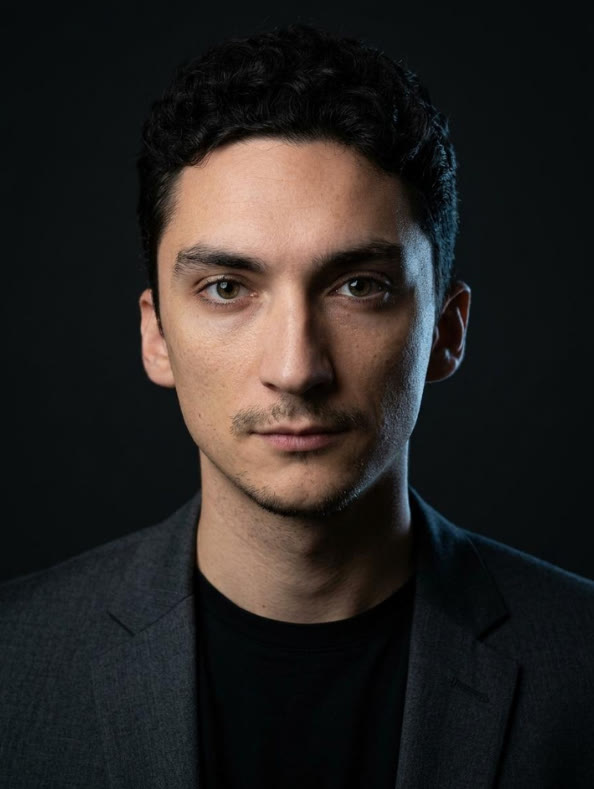
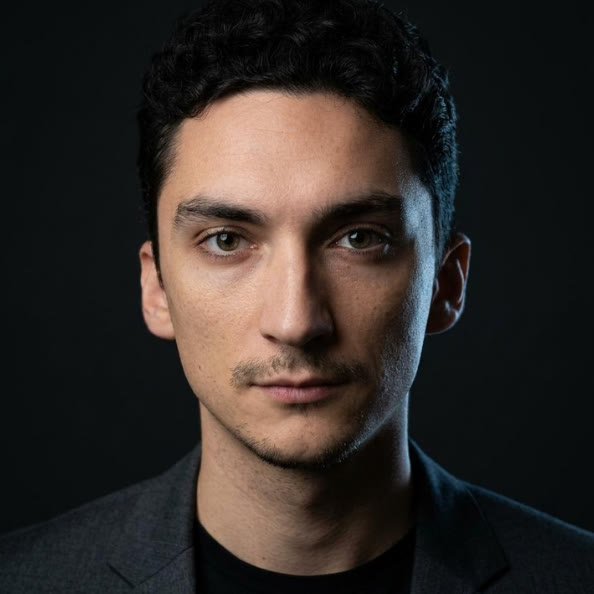
Square photo, tighter sections, no CV links, new bio
- portrait cropped square (594x594) and the hero CTAs sit under it
- hero bio replaced with the new five-paragraph description; page and OG
  descriptions follow it
- sections lose their rule lines and most of the vertical padding, display type
  steps down one notch, so far more lands above the fold
- every section-title description is gone (Experience, Contact, projects page head)
- all Full CV / CV links removed from every page and the footer; every LinkedIn
  button removed from the Experience section (resume.html still exists, unlinked)
- competitions section reads just "Competitions"
- co-author mentions dropped from the site copy (the CV still credits him)

diff --git a/index.html b/index.html
@@ -4,13 +4,13 @@
 <meta charset="utf-8">
 <meta name="viewport" content="width=device-width, initial-scale=1">
 <title>Anton Chernysh — Site Reliability Engineer, Zurich</title>
-<meta name="description" content="Site Reliability Engineer in Zurich. SLOs, error budgets, Kubernetes and infrastructure as code at DFINITY and Taurus, plus seven public repositories from WebAssembly to Z80 assembly.">
+<meta name="description" content="Site Reliability Engineer in Zurich. I take products from prototype to production infrastructure that stays up under real traffic — Go, Python and applied ML.">
 <meta name="author" content="Anton Chernysh Kornishuk">
 <link rel="canonical" href="https://visn0.github.io/portfolio/">
 
 <meta property="og:type" content="profile">
 <meta property="og:title" content="Anton Chernysh — Site Reliability Engineer">
-<meta property="og:description" content="SLOs, error budgets, Kubernetes and infrastructure as code. Projects in Rust/WebAssembly, Go and Python.">
+<meta property="og:description" content="Site Reliability Engineer in Zurich. Five years of taking products from prototype to production — SRE, Go and Python, and computational biology on the side.">
 <meta property="og:url" content="https://visn0.github.io/portfolio/">
 <meta property="og:image" content="https://visn0.github.io/portfolio/assets/img/og-card.png">
 <meta name="twitter:card" content="summary_large_image">
@@ -60,25 +60,39 @@
   <!-- ------------------------------------------------------- who I am -->
   <section class="hero-simple shell">
     <div class="hero-inner">
-      <figure class="portrait reveal">
-        <img src="assets/img/anton.jpg" alt="Anton Chernysh" width="594" height="789">
-      </figure>
+      <div class="hero-photo">
+        <figure class="portrait reveal">
+          <img src="assets/img/anton.jpg" alt="Anton Chernysh" width="594" height="594">
+        </figure>
+        <div class="cta-row hero-social">
+          <a class="btn btn--linkedin" href="https://www.linkedin.com/in/anton-chernysh/" target="_blank" rel="me noopener">LinkedIn</a>
+          <a class="btn btn--github" href="https://github.com/Visn0" target="_blank" rel="me noopener">GitHub</a>
+        </div>
+      </div>
 
       <div>
         <p class="eyebrow">Site Reliability Engineer · Zurich, Switzerland</p>
         <h1>Anton Chernysh</h1>
         <p class="hero-bio">
-          I keep production systems measurable, and then keep them that way. At DFINITY I build and scale
-          <strong>caffeine.ai</strong>, an AI-driven platform for building and deploying full-stack applications
-          in the cloud, and I run the reliability practice around it: SLOs, error budgets,
-          incident response and postmortems.
+          I build and scale infrastructure for startups, with 5+ years of taking products from early
+          prototype to production systems that stay up under real traffic.
         </p>
         <p class="hero-bio">
-          Before that I looked after regulated financial infrastructure at Taurus — Terraform, Kubernetes
-          and 24/7 on-call — and at Webbeds I refactored core services from PHP to Go for 6 billion
-          requests a day at four times the throughput. I write Go, Python and Rust, and I prefer problems
-          where the answer has to be measured rather than argued about. “If you cannot measure it, you
-          cannot improve it.”
+          My toolkit spans SRE, software engineering and machine learning: I write production code in Go
+          and Python, and I care about the whole lifecycle — architecture, observability, incident response,
+          and the algorithmic optimizations that make systems faster and cheaper to run.
+        </p>
+        <p class="hero-bio">
+          I think in tradeoffs: reliability against shipping speed, infrastructure cost against performance.
+          My mathematical background and interest in bioinformatics keep me close to hard technical problems
+          rather than just keeping servers alive.
+        </p>
+        <p class="hero-bio">
+          Outside of work you'll find me at machine learning hackathons or digging into computational
+          biology — I learn best by building.
+        </p>
+        <p class="hero-bio hero-bio--close">
+          Open to conversations about infrastructure and applied ML in bioinformatics.
         </p>
 
         <p class="hero-meta">
@@ -86,11 +100,6 @@
           <span>Site Reliability Engineer, DFINITY</span>
           <span>Ukrainian, Spanish (native) · English · German</span>
         </p>
-
-        <div class="cta-row">
-          <a class="btn btn--linkedin" href="https://www.linkedin.com/in/anton-chernysh/" target="_blank" rel="me noopener">LinkedIn</a>
-          <a class="btn btn--github" href="https://github.com/Visn0" target="_blank" rel="me noopener">GitHub</a>
-        </div>
       </div>
     </div>
   </section>
@@ -199,10 +208,6 @@
     <div class="section-head">
       <h2 class="eyebrow">Experience</h2>
       <div>
-        <p class="section-lede">
-          Reliability, platform and software engineering across Switzerland, Spain and Luxembourg — from AI
-          platforms and regulated finance to travel traffic at billions of requests a day.
-        </p>
       </div>
     </div>
 
@@ -298,17 +303,12 @@
       </article>
     </div>
 
-    <div class="cta-row no-print">
-      <a class="btn" href="resume.html">Full CV</a>
-      <a class="btn btn--linkedin" href="https://www.linkedin.com/in/anton-chernysh/" target="_blank" rel="me noopener">LinkedIn profile</a>
-    </div>
   </section>
 
   <!-- ---------------------------------------------------- competitions -->
   <section class="section shell" id="competitions">
     <div class="section-head">
-      <p class="eyebrow">Competitions</p>
-      <div><h2>Competitions, newest first</h2></div>
+      <div><h2>Competitions</h2></div>
     </div>
 
     <div class="comp-list">
@@ -435,7 +435,6 @@
     <div class="contact-grid">
       <div>
         <h2 class="eyebrow">Contact</h2>
-        <p class="section-lede">Based in Zurich. LinkedIn is the quickest route — I read everything that is not a recruiter blast.</p>
         <div class="cta-row">
           <a class="btn btn--linkedin" href="https://www.linkedin.com/in/anton-chernysh/" target="_blank" rel="me noopener">Message me on LinkedIn</a>
           <a class="btn btn--github" href="https://github.com/Visn0" target="_blank" rel="me noopener">GitHub</a>
@@ -444,7 +443,6 @@
       <ul class="contact-list">
         <li><a href="https://www.linkedin.com/in/anton-chernysh/" target="_blank" rel="me noopener"><span class="k">LinkedIn</span><span class="v">in/anton-chernysh</span></a></li>
         <li><a href="https://github.com/Visn0" target="_blank" rel="me noopener"><span class="k">GitHub</span><span class="v">github.com/Visn0</span></a></li>
-        <li><a href="resume.html"><span class="k">CV</span><span class="v">resume.html</span></a></li>
         <li><a href="presentation.html"><span class="k">Deck</span><span class="v">10 slides</span></a></li>
       </ul>
     </div>
@@ -454,7 +452,7 @@
 <footer class="site-footer">
   <div class="shell">
     <span>Anton Chernysh Kornishuk · Zurich, Switzerland</span>
-    <span>© <span data-year>2026</span> · <a href="index.html">Home</a> · <a href="projects.html">Projects</a> · <a href="presentation.html">Deck</a> · <a href="resume.html">CV</a></span>
+    <span>© <span data-year>2026</span> · <a href="index.html">Home</a> · <a href="projects.html">Projects</a> · <a href="presentation.html">Deck</a></span>
   </div>
 </footer>
 

diff --git a/assets/css/site.css b/assets/css/site.css
@@ -31,8 +31,8 @@
   --step-0:  clamp(0.95rem, 0.92rem + 0.15vw, 1.02rem);
   --step-1:  clamp(1.1rem, 1.05rem + 0.3vw, 1.25rem);
   --step-2:  clamp(1.35rem, 1.2rem + 0.7vw, 1.7rem);
-  --step-3:  clamp(1.75rem, 1.45rem + 1.5vw, 2.6rem);
-  --step-4:  clamp(2.3rem, 1.6rem + 3.4vw, 4.4rem);
+  --step-3:  clamp(1.55rem, 1.3rem + 1.2vw, 2.1rem);
+  --step-4:  clamp(1.95rem, 1.4rem + 2.4vw, 3.2rem);
 
   /* Space */
   --sp-1: 0.25rem;
@@ -40,10 +40,10 @@
   --sp-3: 0.75rem;
   --sp-4: 1rem;
   --sp-5: 1.5rem;
-  --sp-6: 2rem;
-  --sp-7: 3rem;
-  --sp-8: 4.5rem;
-  --sp-9: 7rem;
+  --sp-6: 1.5rem;
+  --sp-7: 2rem;
+  --sp-8: 2.75rem;
+  --sp-9: 3.5rem;
 
   --shell: 74rem;
   --radius: 3px;
@@ -148,9 +148,9 @@ img, video, svg { max-width: 100%; height: auto; display: block; }
 
 .rule { border: 0; border-top: 1px solid var(--line); margin: 0; }
 
-.section { padding-block: var(--sp-8); border-top: 1px solid var(--line); }
+.section { padding-block: var(--sp-6); }
 .section:first-of-type { border-top: 0; }
-.section-head { display: grid; gap: var(--sp-2); margin-bottom: var(--sp-6); }
+.section-head { display: grid; gap: var(--sp-2); margin-bottom: var(--sp-4); }
 @media (min-width: 56rem) {
   .section-head { grid-template-columns: 14rem 1fr; gap: var(--sp-6); align-items: baseline; }
   .section-head .eyebrow { margin: 0; }
@@ -194,10 +194,10 @@ img, video, svg { max-width: 100%; height: auto; display: block; }
 
 /* -------------------------------------------------- home hero: photo + bio */
 
-.hero-simple { padding-block: var(--sp-7) var(--sp-6); }
+.hero-simple { padding-block: var(--sp-5); }
 .hero-simple .hero-inner { display: grid; gap: var(--sp-6); }
 @media (min-width: 56rem) {
-  .hero-simple .hero-inner { grid-template-columns: minmax(14rem, 19rem) minmax(0, 1fr); gap: var(--sp-8); align-items: start; }
+  .hero-simple .hero-inner { grid-template-columns: minmax(14rem, 19rem) minmax(0, 1fr); gap: var(--sp-7); align-items: start; }
 }
 .portrait {
   margin: 0;
@@ -205,10 +205,14 @@ img, video, svg { max-width: 100%; height: auto; display: block; }
   border-radius: var(--radius-lg);
   overflow: hidden;
   background: var(--bg-elev);
-  aspect-ratio: 3 / 4;
-  width: min(100%, 19rem);
+  aspect-ratio: 1 / 1;
+  width: min(100%, 16rem);
 }
 .portrait img { width: 100%; height: 100%; object-fit: cover; object-position: center 18%; }
+/* the photo column: portrait with the LinkedIn / GitHub buttons right under it */
+.hero-photo { display: grid; gap: var(--sp-3); max-width: 16rem; }
+.hero-photo .cta-row.hero-social { margin-top: 0; gap: var(--sp-2); }
+.hero-social .btn { flex: 1; justify-content: center; padding-inline: var(--sp-3); }
 .hero-simple h1 { font-size: var(--step-4); margin-bottom: var(--sp-3); }
 .hero-simple .hero-role { font-family: var(--font-mono); font-size: var(--step--1); text-transform: uppercase; letter-spacing: 0.14em; color: var(--ink-faint); margin: 0 0 var(--sp-5); }
 .hero-simple .hero-bio { font-size: var(--step-1); color: var(--ink-dim); max-width: 40rem; }
@@ -318,7 +322,7 @@ img, video, svg { max-width: 100%; height: auto; display: block; }
 
 /* experience — a precise two-column ledger */
 .timeline { display: grid; }
-.job { display: grid; gap: var(--sp-2) var(--sp-6); padding-block: var(--sp-5); border-top: 1px solid var(--line); }
+.job { display: grid; gap: var(--sp-2) var(--sp-5); padding-block: var(--sp-4); border-top: 1px solid var(--line); }
 .job:first-child { border-top: 0; padding-top: 0; }
 @media (min-width: 60rem) {
   .job { grid-template-columns: 16rem minmax(0, 1fr); }
@@ -345,7 +349,7 @@ img, video, svg { max-width: 100%; height: auto; display: block; }
 /* awards / education lists */
 .panel-grid { display: grid; gap: var(--sp-6); }
 @media (min-width: 60rem) { .panel-grid { grid-template-columns: repeat(2, minmax(0, 1fr)); gap: var(--sp-7); } }
-.entry { padding-block: var(--sp-4); border-top: 1px solid var(--line); }
+.entry { padding-block: var(--sp-3); border-top: 1px solid var(--line); }
 .entry:first-of-type { border-top: 0; }
 .entry-head { display: flex; flex-wrap: wrap; gap: var(--sp-2) var(--sp-4); align-items: baseline; justify-content: space-between; }
 .entry h4 { font-size: var(--step-1); }
@@ -372,7 +376,7 @@ figcaption { font-family: var(--font-mono); font-size: var(--step--1); color: va
   padding: var(--sp-4); overflow-x: auto; margin: 0 0 var(--sp-5);
 }
 .prose pre code { background: none; border: 0; padding: 0; }
-.page-head { padding-block: var(--sp-7) var(--sp-5); }
+.page-head { padding-block: var(--sp-6) var(--sp-4); }
 .page-head h1 { font-size: var(--step-3); margin-bottom: var(--sp-4); }
 .page-head p { color: var(--ink-dim); max-width: 44rem; }
 
@@ -441,7 +445,7 @@ figcaption { font-family: var(--font-mono); font-size: var(--step--1); color: va
 
 /* ------------------------------------------------------------- contact */
 
-.contact { border-top: 1px solid var(--line); padding-block: var(--sp-8); }
+.contact { border-top: 1px solid var(--line); padding-block: var(--sp-7); }
 .contact-grid { display: grid; gap: var(--sp-6); }
 @media (min-width: 60rem) { .contact-grid { grid-template-columns: minmax(0, 1fr) minmax(0, 1fr); gap: var(--sp-8); } }
 .contact h2:not(.eyebrow) { font-size: var(--step-3); margin-bottom: var(--sp-4); }

diff --git a/projects.html b/projects.html
@@ -38,11 +38,6 @@
   <div class="page-head">
     <p class="eyebrow">Projects</p>
     <h1>Seven repositories, and what each one taught me</h1>
-    <p>
-      One entry per public repository, written from the code rather than from memory, with the date of
-      the last commit attached. The first one is a private repository — the recording and the write-up
-      are here, and I am happy to walk through the source in an interview. The other six are open, and one of them — the chess game — is a joint project with Carlos Arismendi Sánchez rather than a repository of mine.
-    </p>
     <div class="cta-row">
       <a class="btn btn--github" href="https://github.com/Visn0" target="_blank" rel="me noopener">github.com/Visn0</a>
       <a class="btn" href="presentation.html">The deck walks through them</a>
@@ -97,7 +92,7 @@
       <li><strong>How it is split:</strong> front end in vanilla JavaScript and object-oriented style, no framework; backend in Go on Echo, WebSockets for the moves; the UI highlights the last move, the legal destinations of the selected piece, move sounds and draw offers.</li>
       <li><strong>What I would change now:</strong> the rules lived in the game object until we moved them into the board halfway through. That refactor is why the last week of fixes was quick instead of frightening.</li>
     </ul>
-    <p class="mono case-foot">Last commit 3 Sep 2021 · <a href="https://github.com/carlosarismendi/chess" target="_blank" rel="noopener">Repository &rarr;</a> · <span class="card-date">with Carlos Arismendi Sánchez</span></p>
+    <p class="mono case-foot">Last commit 3 Sep 2021 · <a href="https://github.com/carlosarismendi/chess" target="_blank" rel="noopener">Repository &rarr;</a></p>
   </article>
 
 
@@ -195,7 +190,7 @@
 <footer class="site-footer">
   <div class="shell">
     <span>Anton Chernysh Kornishuk · Zurich, Switzerland</span>
-    <span>© <span data-year>2026</span> · <a href="index.html">Home</a> · <a href="presentation.html">Deck</a> · <a href="resume.html">CV</a></span>
+    <span>© <span data-year>2026</span> · <a href="index.html">Home</a> · <a href="presentation.html">Deck</a></span>
   </div>
 </footer>
 

diff --git a/presentation.html b/presentation.html
@@ -103,7 +103,7 @@
       <div class="slide-cols">
         <ul>
           <li><strong>Protein with Rust</strong> — Rust → WebAssembly, fetched live, 3D structure · 2026</li>
-          <li><strong>Chess</strong> — a move-legality engine in vanilla JavaScript, Go backend, with Carlos Arismendi Sánchez · 2021</li>
+          <li><strong>Chess</strong> — a move-legality engine in vanilla JavaScript with a Go backend · 2021</li>
           <li><strong>Path Finding Visualizer</strong> — five search algorithms in TypeScript · 2021</li>
           <li><strong>goBinance</strong> — Go, live market-data streams, arbitrage maths · 2021</li>
         </ul>
@@ -138,9 +138,8 @@
         <div><b>LinkedIn</b>in/anton-chernysh</div>
         <div><b>GitHub</b>github.com/Visn0</div>
         <div><b>Portfolio</b>visn0.github.io/portfolio</div>
-        <div><b>CV</b>two pages, A4</div>
       </div>
-      <p class="mono" style="color: var(--ink-faint);">CV, project write-ups and the recorded demo are all linked from the portfolio home page.</p>
+      <p class="mono" style="color: var(--ink-faint);">Project write-ups and the recorded demo are linked from the portfolio home page.</p>
     </section>
 
   </div>

diff --git a/404.html b/404.html
@@ -20,7 +20,6 @@
     <a class="btn btn--primary" href="index.html">Home</a>
     <a class="btn" href="projects.html">Projects</a>
     <a class="btn" href="presentation.html">Deck</a>
-    <a class="btn" href="resume.html">CV</a>
   </div>
 </main>
 <footer class="site-footer">
